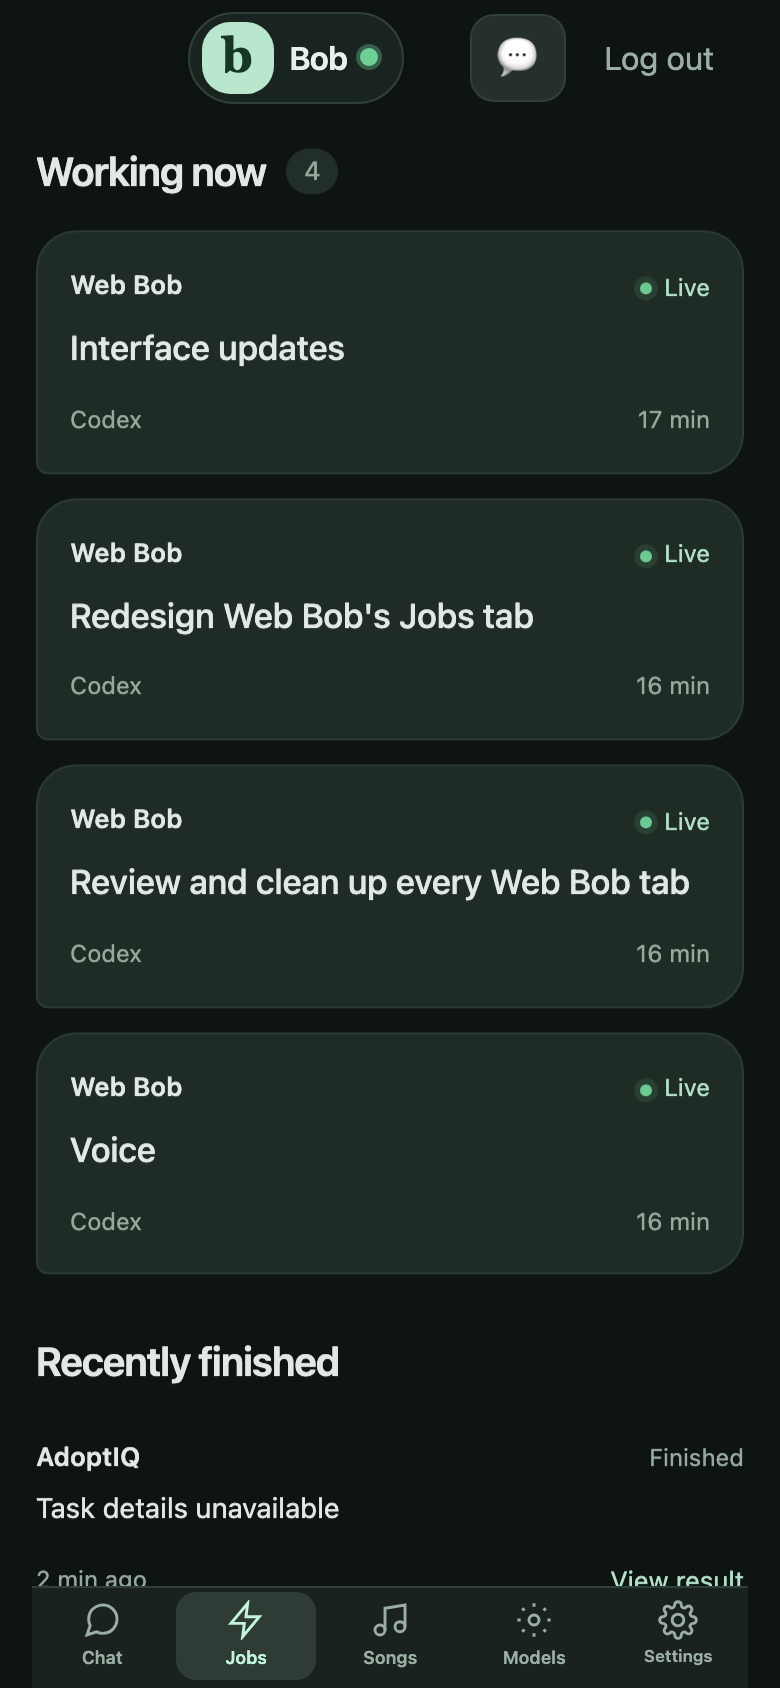
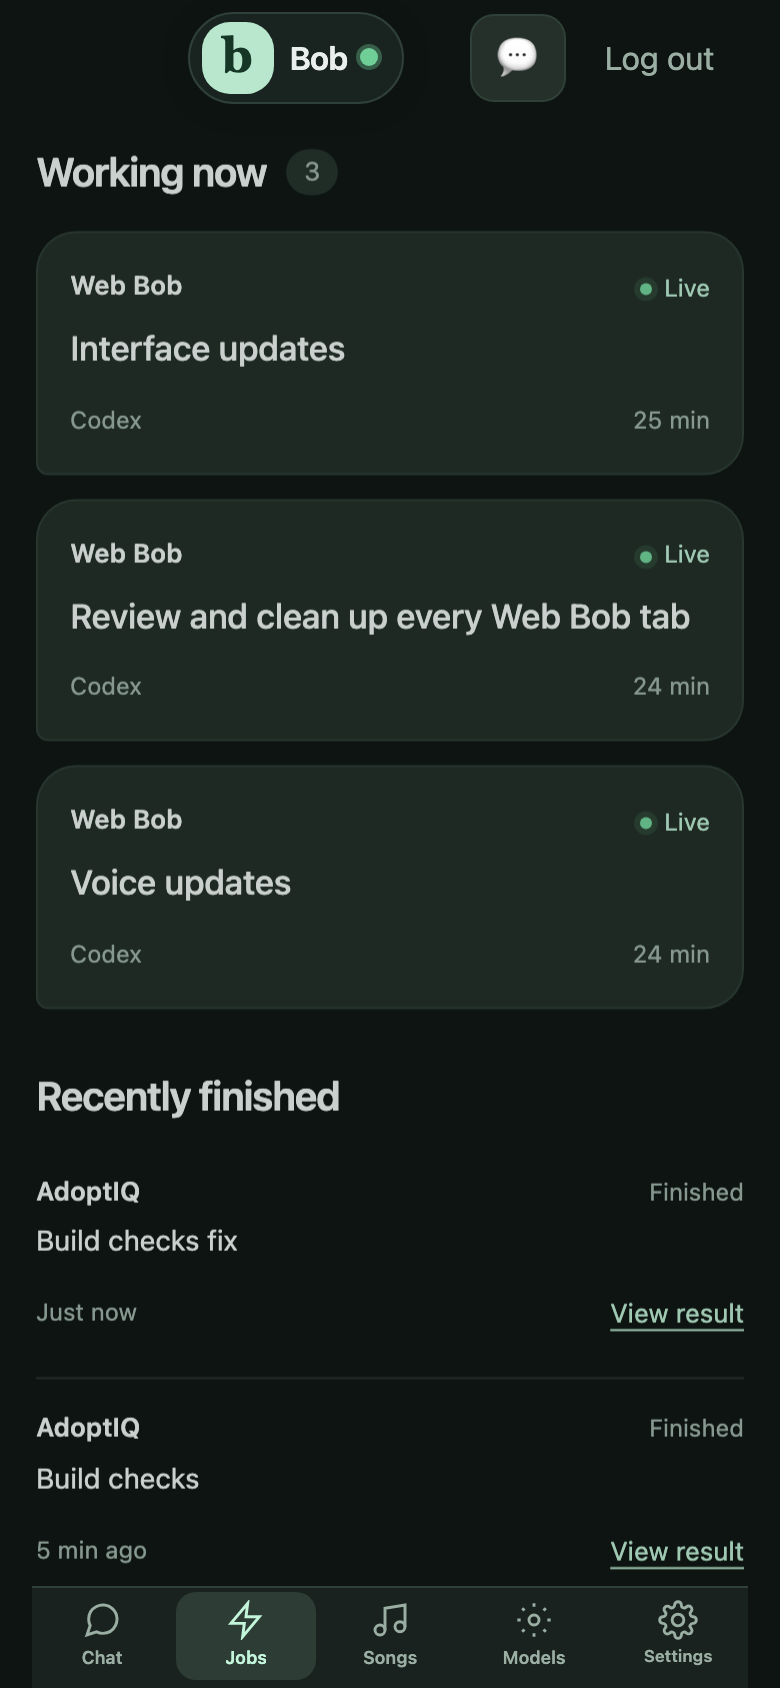
Verify Jobs source failures and isolate dashboard polling

diff --git a/webchat/static/app.js b/webchat/static/app.js
@@ -155,6 +155,7 @@ if ($("login-form")) {
       view.classList.toggle("active", on);
     }
     if (name === "ops") refreshJobs();
+    if (["lanes", "settings"].includes(name)) refreshPanel();
     return true;
   }
   for (const btn of document.querySelectorAll(".bottom-tab")) {
@@ -958,7 +959,7 @@ if ($("login-form")) {
   }
   function renderJobs(data) {
     const rows = data.working || [];
-    const complete = data.inspection?.screens_available && data.inspection?.processes_available;
+    const complete = data.inspection?.screens_available && data.inspection?.processes_available && data.inspection?.queue_available;
     $("working-count").hidden = !rows.length;
     $("working-count").textContent = String(rows.length);
     $("jobs-notice").hidden = complete;
@@ -984,6 +985,7 @@ if ($("login-form")) {
     }));
     const finished = (data.recently_finished || []).slice(0, 5);
     $("finished-empty").hidden = finished.length > 0;
+    $("finished-empty").textContent = data.inspection?.queue_available ? "No finished jobs yet." : "Finished jobs could not be checked.";
     $("finished-jobs").replaceChildren(...finished.map((job) => {
       const card = jobElement("article", "finished-job");
       const heading = jobElement("div", "job-card-heading");
@@ -1027,7 +1029,7 @@ if ($("login-form")) {
     });
     if (!details.costs?.length) add("API cost", "Not reported");
     (details.costs || []).forEach((row) => add(`${row.provider} cost`,
-      `$${row.spent_usd.toFixed(2)} recorded${row.reserved_usd ? ` · $${row.reserved_usd.toFixed(2)} reserved` : ""}`));
+      row.spent_usd == null ? "Not reported" : `$${row.spent_usd.toFixed(2)} recorded${row.reserved_usd ? ` · $${row.reserved_usd.toFixed(2)} reserved` : ""}`));
     (details.sources || []).forEach((row) => add(`${row.label} updated`, jobAge(row.age_seconds)));
     $("jobs-detail-body").replaceChildren(list);
   }
@@ -1051,6 +1053,7 @@ if ($("login-form")) {
     }
   }
   async function refreshPanel() {
+    if (!["lanes", "settings"].includes(activeBottomTab)) return;
     try {
       const data = await api("/api/panel");
       const meta = data.live_ops_meta || {};

diff --git a/webchat/jobs_view.py b/webchat/jobs_view.py
@@ -1,13 +1,14 @@
 """Small, read-only Jobs view. Dashboard, handback and round reports are not inputs."""
 from __future__ import annotations
 
+import json
 import math
 import re
 import time
 from pathlib import Path
 from urllib.parse import quote, urlsplit
 
-from live_status_snapshot import _job_bucket, _latest_jobs, _read_jsonl, observe_work, provider_health
+from live_status_snapshot import _job_bucket, _latest_jobs, observe_work, provider_health
 from worker_activity import WORKER_NAMES
 
 PROJECTS = ((r"web\s*bob|bob-brain", "Web Bob"), (r"web\s*jam", "WebJam"),
@@ -56,6 +57,8 @@ def labels(record, work=None):
         title = re.sub(r"\bclean\d*\b", "chat cleanup", title, flags=re.I)
         title = re.sub(r"\bui\b", "interface updates", title, flags=re.I)
         title = re.sub(r"\bci\b", "build checks", title, flags=re.I)
+        title = re.sub(r"^svc\s+", "", title, flags=re.I)
+        title = {"reviewers": "Reviewing changes", "voice": "Voice updates"}.get(title.strip().lower(), title)
         title = plain(title)
         title = title[:1].upper() + title[1:] if title else ""
     if not title or title.lower() == project.lower():
@@ -120,10 +123,22 @@ def costs(root):
         path = root / "conductor/ledger" / (lane + ".jsonl")
         if not path.is_file():
             continue
-        calls = {row["call_id"]: row for row in _read_jsonl(path) if row.get("call_id")}
-        spent = sum(number(row.get("cost_usd")) or 0 for row in calls.values())
-        reserved = sum(number(row.get("reserved_usd")) or 0 for row in calls.values() if row.get("cost_usd") is None)
-        result.append(dict(provider=WORKER_NAMES[lane], spent_usd=round(spent, 4), reserved_usd=round(reserved, 4)))
+        try:
+            calls = {row["call_id"]: row for row in (json.loads(line) for line in path.read_text().splitlines() if line.strip())}
+            spent, reserved = 0, 0
+            for row in calls.values():
+                cost = row.get("cost_usd")
+                value = number(cost if cost is not None else row.get("reserved_usd"))
+                if value is None or value < 0:
+                    raise ValueError("Unknown cost")
+                if cost is None:
+                    reserved += value
+                else:
+                    spent += value
+            result.append(dict(provider=WORKER_NAMES[lane], spent_usd=round(spent, 4) if calls else None,
+                               reserved_usd=round(reserved, 4) if calls else None))
+        except (OSError, ValueError, KeyError, TypeError):
+            result.append(dict(provider=WORKER_NAMES[lane], spent_usd=None, reserved_usd=None))
     return result
 
 

diff --git a/webchat/live_status_snapshot.py b/webchat/live_status_snapshot.py
@@ -69,14 +69,39 @@ def _screen_sessions(root: Path) -> dict[str, str] | None:
 
 
 def _latest_jobs(root: Path) -> dict[str, dict]:
+    return read_job_journals(root)[0]
+
+
+def read_job_journals(root: Path) -> tuple[dict[str, dict], dict]:
+    """Read journal transitions without locks, repairs, or dashboard writes."""
     merged: dict[str, dict] = {}
+    available, modified = True, None
     for relative in ("conductor/jobs.jsonl", "conductor/queue.jsonl", "conductor/state/queue.jsonl"):
-        for row in _read_jsonl(root / relative):
+        try:
+            path = root / relative
+            content = path.read_text()
+            modified = max(modified or 0, path.stat().st_mtime)
+        except FileNotFoundError:
+            continue
+        except (OSError, UnicodeError):
+            available = False
+            continue
+        for line in content.splitlines():
+            if not line.strip():
+                continue
+            try:
+                row = json.loads(line)
+            except ValueError:
+                available = False
+                continue
+            if not isinstance(row, dict):
+                available = False
+                continue
             job_id = row.get("job_id") or row.get("id")
             if not job_id:
                 continue
             merged[str(job_id)] = {**merged.get(str(job_id), {}), **row, "job_id": str(job_id), "_journal": relative}
-    return merged
+    return merged, {"available": available, "modified_at": modified}
 
 
 def provider_health(root: Path, now: float | None = None) -> dict:
@@ -331,12 +356,13 @@ def observe_work(root: Path, *, now: float | None = None) -> dict:
     screen_sample = _screen_sessions(root)
     sessions = screen_sample or {}
     processes = process_table(root)
-    jobs_map = _latest_jobs(root)
+    jobs_map, queue_meta = read_job_journals(root)
     queue = _queue_jobs(jobs_map, set(sessions), limit=len(jobs_map))
     return dict(records=jobs_map, sessions=sessions, queue=queue,
                 work=collect_work(sessions, queue["claimed"], processes, now),
                 inspection=dict(screens_available=screen_sample is not None,
-                                processes_available=processes is not None))
+                                processes_available=processes is not None,
+                                queue_available=queue_meta["available"]))
 
 
 def build_live_status_snapshot(root: Path, *, now: float | None = None) -> dict:

diff --git a/webchat/test_jobs_view.py b/webchat/test_jobs_view.py
@@ -137,6 +137,45 @@ class JobsViewTests(unittest.TestCase):
         self.assertEqual(health["Codex"]["age_seconds"], 500)
         self.assertEqual(view["details"]["costs"], [dict(provider="MiniMax", spent_usd=1, reserved_usd=.5)])
 
+    def test_torn_queue_is_not_idle_and_read_does_not_repair_or_lock_it(self):
+        path = self.queue(dict(id="waiting", status="queued", title="Fix chat"))
+        path.write_text(path.read_text() + '{"id":')
+        before = path.read_bytes()
+        with patch("live_status_snapshot._screen_sessions", return_value={}), patch("live_status_snapshot.process_table", return_value={}):
+            view = build_jobs_view(self.root)
+        self.assertEqual(view["working"], [])
+        self.assertEqual(view["details"]["queued"], 1)
+        self.assertFalse(view["inspection"]["queue_available"])
+        self.assertEqual(path.read_bytes(), before)
+        self.assertFalse((path.parent / ".queue.lock").exists())
+
+    def test_unreadable_queue_is_not_an_empty_queue(self):
+        queue = self.root / "conductor/state/queue.jsonl"
+        queue.mkdir(parents=True)
+        view = build_jobs_view(self.root)
+        self.assertFalse(view["inspection"]["queue_available"])
+
+    def test_missing_queue_is_valid_empty_state(self):
+        with patch("live_status_snapshot._screen_sessions", return_value={}), patch("live_status_snapshot.process_table", return_value={}):
+            view = build_jobs_view(self.root)
+        self.assertTrue(view["inspection"]["queue_available"])
+        self.assertEqual(view["working"], [])
+
+    def test_service_reviewer_task_uses_plain_words(self):
+        from jobs_view import labels
+
+        row = labels({}, {"screen": "svc-webbob-reviewers", "title": "Task details unavailable"})
+        self.assertEqual(row, dict(project="Web Bob", task="Reviewing changes"))
+
+    def test_empty_corrupt_and_unknown_cost_ledgers_are_not_zero_dollars(self):
+        for value in ("", "not JSON", json.dumps(dict(call_id="a", cost_usd=None)),
+                      json.dumps(dict(call_id="a", cost_usd=-5)), json.dumps(dict(call_id="a", cost_usd="bad"))):
+            with self.subTest(value=value):
+                self.write("conductor/ledger/minimax.jsonl", value)
+                row = build_jobs_view(self.root)["details"]["costs"][0]
+                self.assertIsNone(row["spent_usd"])
+                self.assertIsNone(row["reserved_usd"])
+
 
 if __name__ == "__main__":
     unittest.main()

diff --git a/webchat/test_live_status_snapshot.py b/webchat/test_live_status_snapshot.py
@@ -93,7 +93,7 @@ class SnapshotTests(unittest.TestCase):
         with patch("live_status_snapshot._screen_sessions", return_value=None), \
                 patch("live_status_snapshot.process_table", return_value=None):
             snap = build_live_status_snapshot(self.root)
-        self.assertEqual(snap["inspection"], dict(screens_available=False, processes_available=False))
+        self.assertEqual(snap["inspection"], dict(screens_available=False, processes_available=False, queue_available=True))
 
     def test_status_does_not_refresh_or_write_live_ledger_when_dashboard_is_stale(self):
         dashboard = self.root / "conductor/dashboard.json"

diff --git a/webchat/isolated_jobs_proof.py b/webchat/isolated_jobs_proof.py
@@ -61,6 +61,8 @@ def main():
     rows += [dict(id=f"finished-{i}", status="succeeded", project="WebJam", title=f"Review build checks {i}", finished_at=now - 60 * (i + 1),
                   result="Saved browser fixture result <img src=x onerror=alert(1)>", pr_url="https://github.com/example/repo/pull/12" if i == 0 else None)
              for i in range(7)]
+    for row in rows:
+        row["conversation_id"] = "private-fixture-conversation"
     journal.write_text("".join(json.dumps(row) + "\n" for row in rows))
     empty_root = root / "empty"
     empty_root.mkdir()

diff --git a/reviews/WEBBOB-CLEAN-0927.md b/reviews/WEBBOB-CLEAN-0927.md
@@ -206,34 +206,34 @@ python3 webchat/isolated_intent_proof.py --output reviews/WEBBOB-CLEAN-0927.inte
 
 ## Follow-up 4: phone-first Jobs
 
-PASS. Jobs now starts with **Working now**, with one card per observed job or lane screen: project, task, actual worker/model when reported, elapsed time and a live dot. **Recently finished** shows the last five terminal journal entries, with saved results and recorded PR links. A native, initially collapsed **Details** disclosure contains provider health, recorded API cost, waiting assignments and source ages. Cards use Chat's colors, rounded surfaces and spacing.
+PASS. Jobs now starts with **Working now**, with one card per observed job or lane screen: project, task, actual worker/model when reported, elapsed time and a live dot. **Recently finished** shows the last five terminal journal entries, with saved results and recorded PR links. A native, initially collapsed **Details** disclosure contains provider health, recorded API cost, waiting assignments and source ages. Cards use Chat's colors, rounded surfaces and spacing. Unreadable or damaged cost ledgers say “Not reported”; they never imply zero spend.
 
-The new authenticated `/api/jobs/activity` endpoint reads `conductor/state/queue.jsonl`, the legacy job journals, current `screen -ls`/`ps` observations, `provider-health.json` and cost ledgers. Reads do not repair journals, acquire queue claims, refresh dashboards or launch workers. Queue claims, CLI wrappers and workers in the same lane produce one card. Open screens without a verified worker are labeled accordingly; stale claims stay in Details. Missing process checks and failed requests show an unavailable message instead of an idle claim. The verified empty state is exactly **“Nothing running right now.”**
+The new authenticated `/api/jobs/activity` endpoint reads `conductor/state/queue.jsonl`, the legacy job journals, current `screen -ls`/`ps` observations, `provider-health.json` and cost ledgers. Reads do not repair journals, acquire queue claims, refresh dashboards or launch workers. Queue claims, CLI wrappers and workers in the same lane produce one card. Open screens without a verified worker are labeled accordingly; stale claims stay in Details. Missing process or queue checks and failed requests show an unavailable message instead of an idle claim. The verified empty state is exactly **“Nothing running right now.”**
 
 Jobs no longer renders NOW/handback text, dashboard rows, round scores, scheduler copy, self-improve bootstrap instructions, raw commits or placeholder SHAs. Known drill entries are excluded. Standalone CLI assignments can use their explicit “Follow-up …” task header as a label; the rest of the process prompt is omitted. Missing exact model variants are never guessed. Finished rows are ordered by completion time, so later delivery receipts do not reorder old work. Result buttons open saved text in the authenticated report dialog; local result paths must resolve inside the data root, and external links accept only HTTP(S) without embedded credentials.
 
 ### Validation
 
-The shared checkout received concurrent tab edits during this task, so this follow-up was completed in a separate worktree. It was rebased onto the already-pushed chat-intent recheck `eb73d23`, preserving that work. The final combined branch passed:
+The shared checkout received concurrent tab edits during this task, so this follow-up was completed in a separate worktree. It was rebased onto the already-pushed chat-intent recheck `eb73d23`, preserving that work. The overlapping Jobs implementation in `fce7644` was retained, with an additional verification pass for queue-read failures, unknown costs and dashboard independence. The final combined branch passed:
 
 | Command/check | Result |
 | --- | --- |
-| `python3 -m unittest discover -s webchat -p 'test_*.py'` | **222 passed**, 12.990 s |
+| `python3 -m unittest discover -s webchat -p 'test_*.py'` | **227 passed**, 13.336 s |
 | `python3 -m unittest discover -s services -p 'test_*.py'` | **111 passed** |
 | `node --test webchat/test_quiet_hours_js.mjs` | **1 passed** |
 | `python3 bootstrap.py check` | **syntax: PASS** |
 | `node --check webchat/static/app.js` and `git diff --check` | **Passed** |
 | Headless Chromium at 320, 390, 430 and 900 CSS pixels, dark and light | **Passed; no horizontal overflow or page errors** |
 
-Twelve added Python regressions cover queue/process/screen deduplication, live lanes with an empty queue, explicit standalone task labels, stale drill/dashboard exclusion, honest paused/unavailable states, latest-five completion ordering, persisted health/cost, authenticated redacted results, missing files, unsafe URLs and path/symlink escapes. No tests were skipped. Service-suite restart messages are from mocked watchdog tests.
+Seventeen added Python regressions cover queue/process/screen deduplication, live lanes with an empty queue, explicit standalone task labels, stale drill/dashboard exclusion, honest paused/unavailable states, latest-five completion ordering, persisted health/cost, authenticated redacted results, missing files, unsafe URLs, path/symlink escapes, unreadable/torn queues and unknown cost records and plain service-task labels. No tests were skipped. Service-suite restart messages are from mocked watchdog tests.
 
 ### Phone screenshot and isolated browser proof
 
-[Phone screenshot: webbob-jobs-0927.png](webbob-jobs-0927.png) — **390 × 844 CSS pixels**, device scale 2, dark theme. This is an actual read-only host observation served through a fresh private Chat instance on an ephemeral loopback port, not the live listener. At capture, four workers were active and five recent terminal jobs were available. Details remained collapsed. The screenshot was visually reviewed after capture.
+[Phone screenshot: webbob-jobs-0927.png](webbob-jobs-0927.png) — **390 × 844 CSS pixels**, device scale 2, dark theme. This is an actual read-only host observation served through a fresh private Chat instance on an ephemeral loopback port, not the live listener. At capture, 3 workers were active and five recent terminal jobs were available. Details remained collapsed. Both the main screenshot and the [scrolled recent-results screenshot](webbob-jobs-0927.finished.png) were visually reviewed after capture.
 
-The [browser proof](../webchat/isolated_jobs_proof.py) also uses private journal/process fixtures to check two deduplicated cards, five finished rows, result opening, escaped result content, the recorded PR link, disclosure state across polling, the exact empty state, unavailable process checks and HTTP failure/recovery. The fixture's `test-model` values are test inputs only; the saved screenshot uses actual host observations. No external model or worker was started.
+The [browser proof](../webchat/isolated_jobs_proof.py) also uses private journal/process fixtures to check two deduplicated cards, five finished rows, result opening, escaped result content, the recorded PR link, disclosure state across polling, the exact empty state, unavailable process checks and HTTP failure/recovery. It also verifies that an unreadable queue cannot show the idle state, and that Chat/Jobs never request the legacy dashboard endpoint. Normal conversation polling stays healthy during the proof; unexpected HTTP failures now fail it. The fixture's `test-model` values are test inputs only; the saved screenshot uses actual host observations. No external model or worker was started.
 
-The final proof ran **2026-09-27T19:57:14.326588+00:00 → 2026-09-27T19:57:16.729354+00:00**. [Raw evidence](WEBBOB-CLEAN-0927.jobs-evidence.json) records the viewport checks, sanitized live data, zero provider calls and matching source/screenshot hashes. The private queue was unchanged. The live listener remained **PID 99149**, started **Sun Sep 27 12:40:03 2026**, and all seven service screen identities matched before and after. No live restart, deployment, merge, force-push or Grok invocation occurred.
+The final proof ran **2026-09-27T20:05:36.760896+00:00 → 2026-09-27T20:05:39.279304+00:00**. [Raw evidence](WEBBOB-CLEAN-0927.jobs-evidence.json) records the viewport checks, sanitized live data, zero provider calls and matching source/screenshot hashes. The private queue was unchanged. The live listener remained **PID 99149**, started **Sun Sep 27 12:40:03 2026**, and all seven service screen identities matched before and after. No live restart, deployment, merge, force-push or Grok invocation occurred.
 
 ```sh
 # Use the existing Playwright runtime and Chromium; set BOB_PLAYWRIGHT_MODULE
